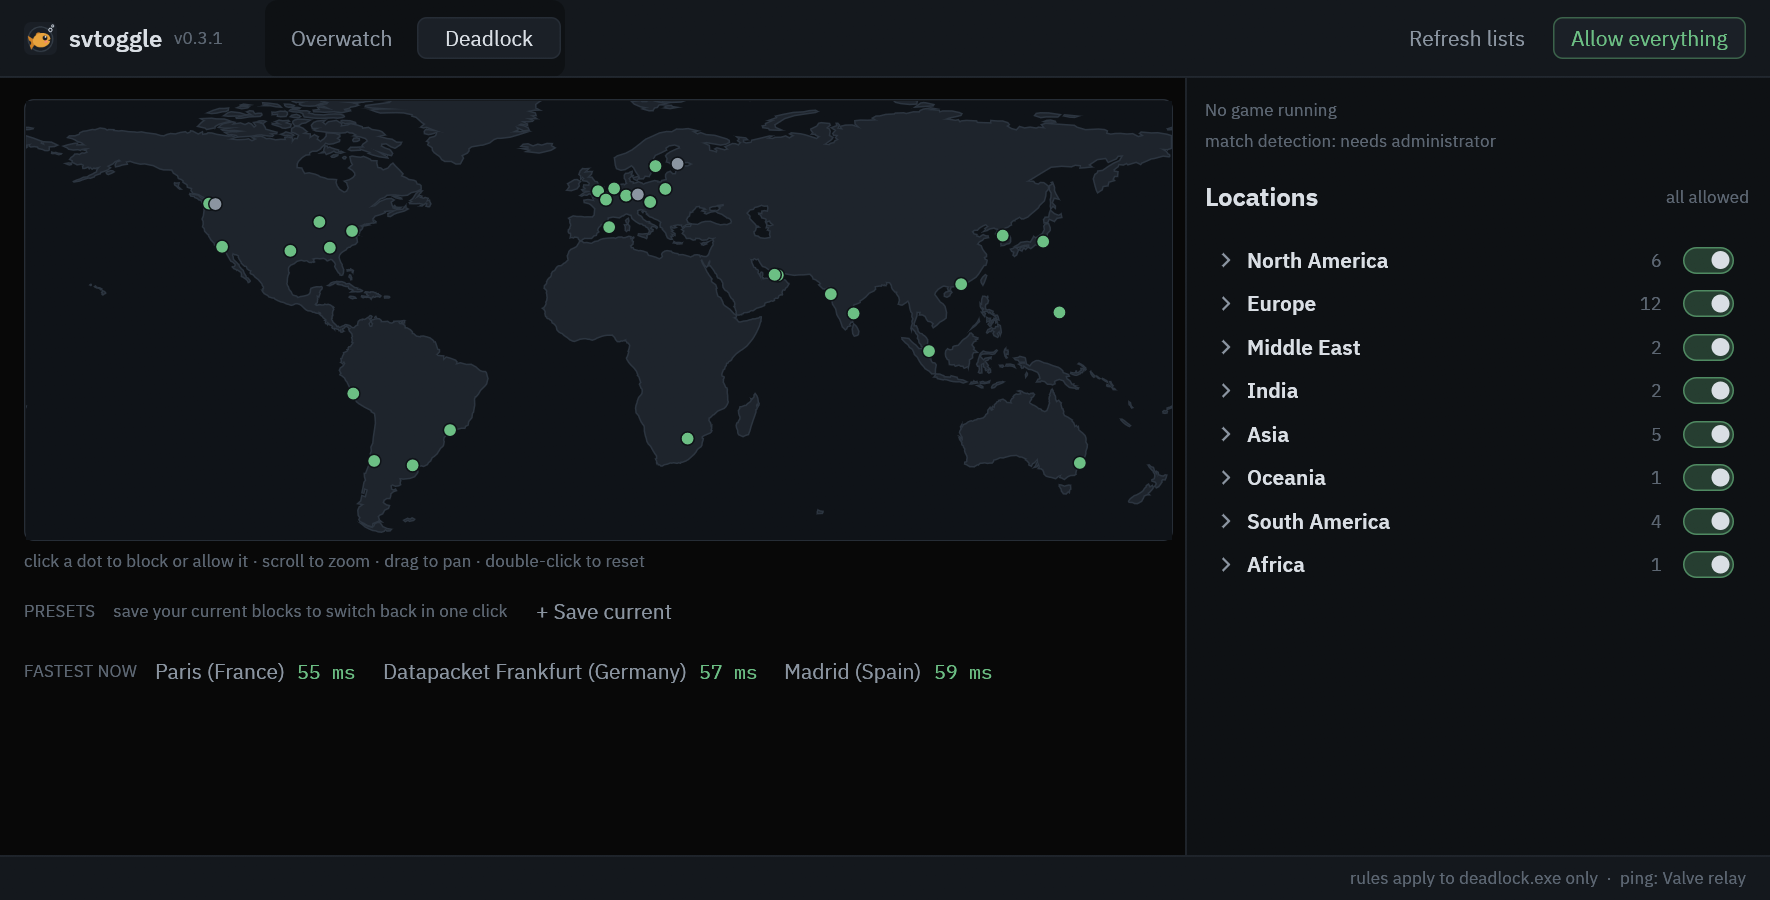
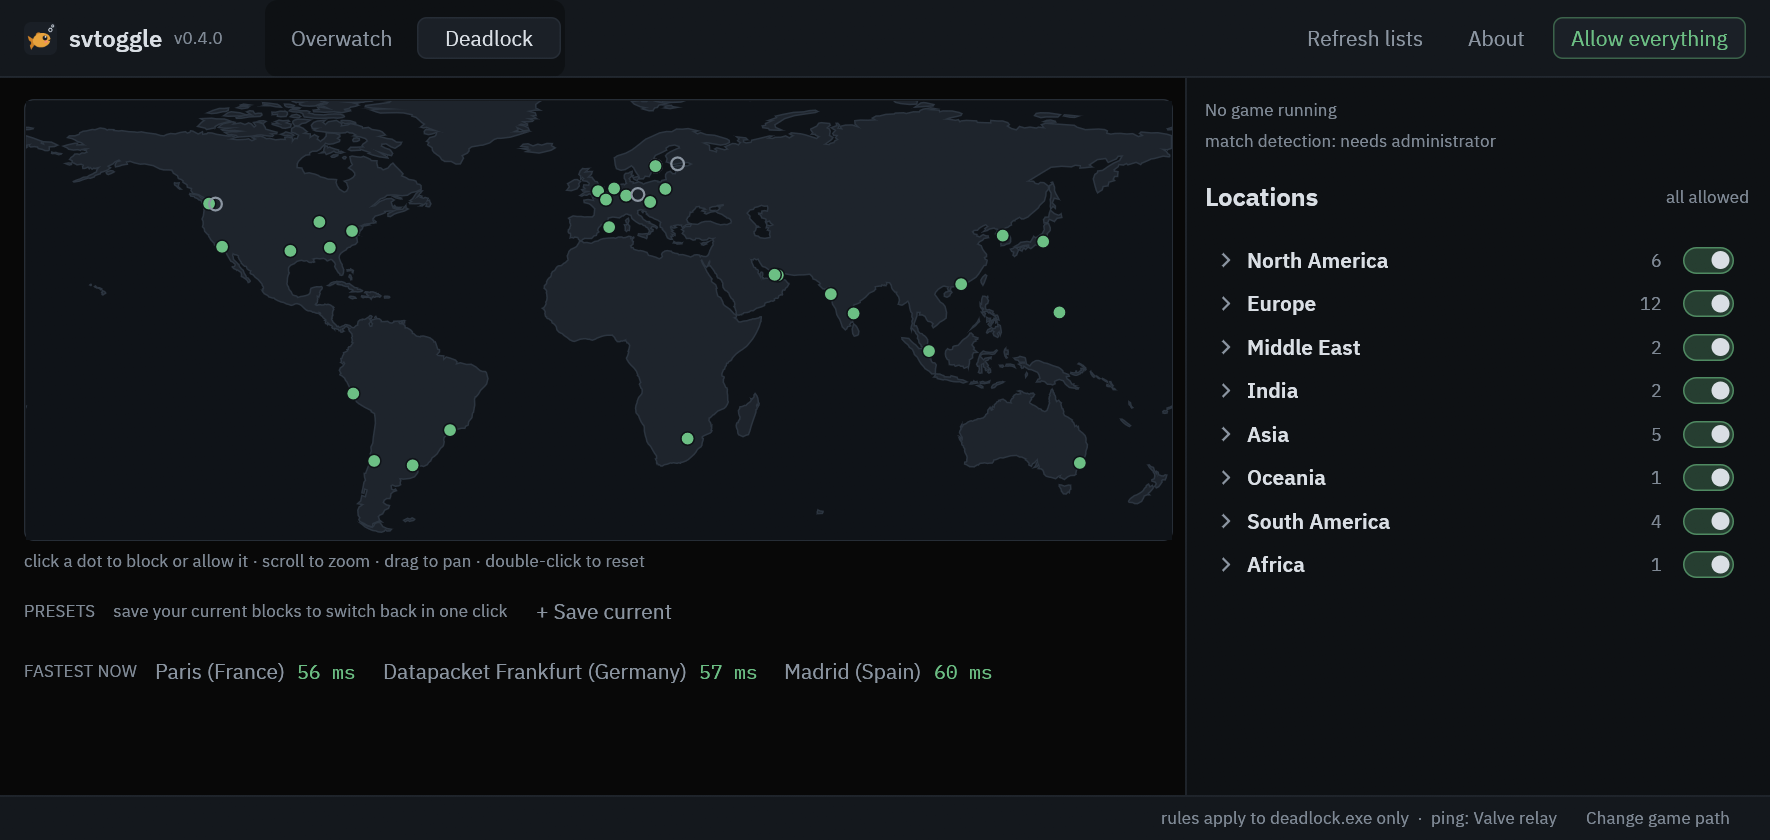
v0.4.0: Codex round 2 (honesty, safety, robustness, packaging, notices, a11y)
Legacy rules join reconcile, strict refresh entries, re-apply on exe change, no rule changes mid-match.

diff --git a/app/src/bin/svtoggle-gui.rs b/app/src/bin/svtoggle-gui.rs
@@ -52,6 +52,7 @@ struct App {
     tray: Option<Tray>,
     logo: egui::TextureHandle,
     pending: Option<Pending>, // a block waiting for "you're in a match, sure?"
+    deferred: Option<(usize, Option<Profile>)>, // rule re-apply held until the current match ends
     about: bool,
     tx: Sender<Msg>,
     rx: Receiver<Msg>,
@@ -97,8 +98,10 @@ impl App {
             .unwrap_or(0);
         let mut app = App { profs, exes, tab, toast: None, blocked: HashMap::new(), pings: HashMap::new(),
               last_status: None, last_ping: None, refreshing: false, pings_out: 0, presets, naming: None,
-              expanded: HashSet::new(), map: MapView::default(), monitor, tray, logo, pending: None, about: false, tx, rx };
-        app.startup_checks();
+              expanded: HashSet::new(), map: MapView::default(), monitor, tray, logo, pending: None, deferred: None, about: false, tx, rx };
+        if std::env::var_os("SVTOGGLE_SHOT").is_none() {
+            app.startup_checks(); // screenshot runs are unelevated; their access-denied toast isn't the product
+        }
         app
     }
 
@@ -146,6 +149,8 @@ impl App {
             Ok(()) => {
                 self.exes[self.tab] = games::exe(&game).map(|e| e.display().to_string());
                 self.say(format!("Using {}", path.display()), false);
+                // existing blocks still point at the old exe: move them over
+                self.reapply(self.tab, None, format!("Using {}", path.display()));
             }
             Err(e) => self.say(e, true),
         }
@@ -251,21 +256,31 @@ impl App {
         match res {
             Ok((p, summary)) => {
                 let old = std::mem::replace(&mut self.profs[i], p);
-                // same reconcile as startup and the CLI: new lists into live rules, vanished regions off
-                let errs = match Fw::open() {
-                    Ok(fw) => toggle::reconcile(&fw, Some(&old), &self.profs[i]),
-                    Err(e) => vec![e.to_string()],
-                };
                 self.monitor.set_targets(targets(&self.profs));
-                self.refresh_status();
-                if errs.is_empty() {
-                    self.say(summary, false);
-                } else {
-                    self.say(format!("{summary}, but re-applying rules failed: {}", errs.join("; ")), true);
-                }
+                self.reapply(i, Some(old), summary);
                 self.last_ping = None;
             }
             Err(e) => self.say(format!("Refresh failed, kept the old list: {e}"), true),
+        }
+    }
+
+    /// Same reconcile as startup and the CLI (new lists into live rules, vanished regions off), but never
+    /// during a detected match: new endpoints could drop the game. Held in `deferred` until it ends.
+    fn reapply(&mut self, i: usize, old: Option<Profile>, summary: String) {
+        if self.monitor.current().is_some() {
+            self.deferred = Some((i, old));
+            self.say(format!("{summary}. Your blocks update after this match."), false);
+            return;
+        }
+        let errs = match Fw::open() {
+            Ok(fw) => toggle::reconcile(&fw, old.as_ref(), &self.profs[i]),
+            Err(e) => vec![e.to_string()],
+        };
+        self.refresh_status();
+        if errs.is_empty() {
+            self.say(summary, false);
+        } else {
+            self.say(format!("{summary}, but re-applying rules failed: {}", errs.join("; ")), true);
         }
     }
 
@@ -736,6 +751,10 @@ impl eframe::App for App {
                 }
                 Msg::Refreshed(i, res) => self.on_refreshed(i, res),
             }
+        }
+        if self.deferred.is_some() && self.monitor.current().is_none() {
+            let (i, old) = self.deferred.take().unwrap();
+            self.reapply(i, old, "Match over, blocks updated".into());
         }
         if self.last_status.is_none_or(|t| t.elapsed() >= STATUS_EVERY) {
             self.refresh_status();

diff --git a/core/src/toggle.rs b/core/src/toggle.rs
@@ -58,13 +58,19 @@ fn plan(prev: Option<&Profile>, now: &Profile, enabled: impl Fn(&str) -> bool) -
 /// After a list refresh or protect.txt change: push the current guarded lists into every enabled rule,
 /// disable rules whose region has nothing blockable left or vanished. Returns errors (empty = fine).
 pub fn reconcile(fw: &Fw, prev: Option<&Profile>, now: &Profile) -> Vec<String> {
-    let enabled = |id: &str| fw.status(&rule_name(&now.game, id)).is_some_and(|(en, _)| en);
+    let on = |n: &str| fw.status(n).is_some_and(|(en, _)| en);
+    let legacy = |id: &str| now.region(id).or_else(|| prev.and_then(|p| p.region(id))).and_then(|r| r.legacy_rule.clone());
+    // a live legacy rule counts too: re-blocking migrates it to a guarded, exe-scoped rule (set() disables it)
+    let enabled = |id: &str| on(&rule_name(&now.game, id)) || legacy(id).is_some_and(|l| on(&l));
     plan(prev, now, enabled)
         .into_iter()
         .filter_map(|(id, step)| {
             let res = match step {
                 Step::Reblock => set(fw, now, &id, true).map(|_| ()),
-                Step::Disable => fw.allow(&rule_name(&now.game, &id)).map(|_| ()).map_err(deny),
+                Step::Disable => fw.allow(&rule_name(&now.game, &id)).map_err(deny).and_then(|_| match legacy(&id) {
+                    Some(l) => fw.allow(&l).map(|_| ()).map_err(deny),
+                    None => Ok(()),
+                }),
             };
             let name = now.region(&id).or_else(|| prev.and_then(|p| p.region(&id))).map_or(id.as_str(), |r| r.name.as_str());
             res.err().map(|e| format!("{name}: {e}"))

diff --git a/core/src/refresh.rs b/core/src/refresh.rs
@@ -160,8 +160,10 @@ fn merge_qiiks(current: &Profile, body: &str) -> Result<(Profile, usize), String
             return Err(format!("Qiiks list for {key} is empty, keeping the old lists"));
         }
         let mut keep = Vec::new();
-        for s in list.iter().filter_map(|x| x.as_str()) {
-            let c = Cidr::parse(s)?; // a malformed entry fails the whole refresh
+        for x in list {
+            // a non-string or malformed entry fails the whole refresh instead of being skipped
+            let s = x.as_str().ok_or_else(|| format!("Qiiks list for {key} has a non-text entry ({x}), keeping the old lists"))?;
+            let c = Cidr::parse(s)?;
             if protect.iter().any(|pr| c.overlaps(pr)) {
                 dropped += 1; // shortcut: drops a whole range that merely contains a protected one; fine while ranges are this granular
             } else {
@@ -201,6 +203,12 @@ mod tests {
             .collect();
         regions.push(r#""OW2-MiddleEast":{"cidrs":["1.2.3.0/24"]}"#.into());
         format!(r#"{{"regions":{{{}}}}}"#, regions.join(","))
+    }
+
+    #[test]
+    fn qiiks_merge_rejects_non_text_entries() {
+        let cur = Profile::load(profile::OVERWATCH).unwrap();
+        assert!(merge_qiiks(&cur, &qiiks(r#"[null]"#, &[])).unwrap_err().contains("non-text"));
     }
 
     #[test]

diff --git a/CHANGELOG.md b/CHANGELOG.md
@@ -1,5 +1,17 @@
 # Changelog
 
+## 0.4.0 — 2026-11-13
+Fixes from a second Codex review (design + project):
+- **Honesty:** website/README say what's experimental (Deadlock blocking, match detection) and that blocking stops connections to listed endpoints rather than guaranteeing a region. Overwatch pings are shown as estimates (`~60 ms`, "FASTEST NOW (EST.)").
+- **Safety:** blocking while a match is detected asks first (leaver penalties). Tray says "Quit (blocks stay on)".
+- **protect.txt is enforced on existing rules:** on startup (and after every refresh, GUI or CLI) live rules are re-applied with the current guarded lists; malformed lines are reported, not ignored.
+- **Refresh rejects broken downloads** (too few Deadlock POPs, missing/empty Overwatch regions) and keeps the old list.
+- **Locate game / Change game path** button; Steam installs of Overwatch are detected.
+- **Match detection** keeps port ownership per game, so two running games can't be confused.
+- **Install/uninstall:** release ZIP with `install.ps1` that works next to the exes; uninstall stops the app, removes svtoggle firewall rules, verifies, and tells you what it kept. `scripts/package.ps1` refuses to ship a build without the admin manifest and writes SHA-256 sums.
+- **Notices:** THIRD-PARTY-NOTICES.md (IBM Plex OFL, Natural Earth, Valve data, Qiiks MIT / foryVERX provenance) shipped in the ZIP and shown in the new About box.
+- **Accessibility/design:** brighter small text (~5:1 contrast), switches are named + keyboard-focusable for screen readers, blocked map markers are an × (not just red), tighter default window, logo without the background ring.
+
 ## 0.3.1 — 2026-11-13
 - New mascot logo: a chubby amber fish swimming past the globe, drawn in code (`app/src/icon.rs`), used for the exe, window, tray, favicon and website. Simplified automatically at 16-20 px.
 
